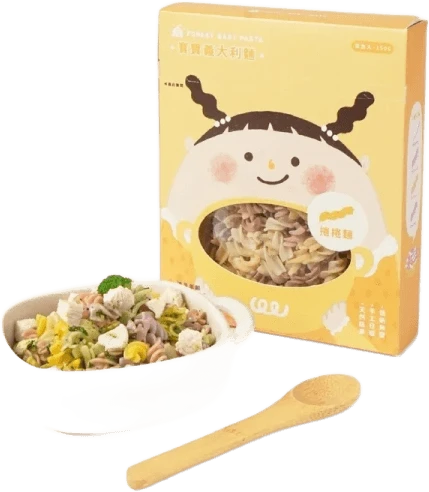
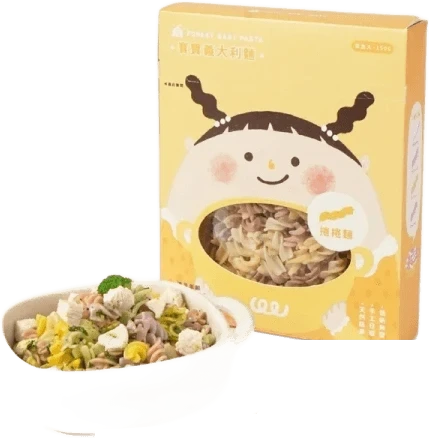
品牌小圖修圖5張：KiGO去logo、美姬留單顆、冊子只留禮盒、禾流重裁、森林麵食去湯匙

diff --git a/images/brands/README.md b/images/brands/README.md
@@ -22,7 +22,7 @@
 | `bonsons.webp` | Bonsons | 白色折疊推車 |
 | `bruno.webp` | Bruno | 白色電烤盤 |
 | `caroline.webp` | 卡蘿琳 | 紫白包裝益生菌盒 |
-| `cezi-giftbox.webp` | 冊子 | 中秋禮盒（月餅組） |
+| `cezi-giftbox.webp` | 冊子 | 中秋禮盒（七入月餅盒） |
 | `forest-noodle.webp` | 森林麵食 | 黃盒麵食＋木碗 |
 | `giiker.webp` | Giiker | 彩色數字方塊益智機 |
 | `hanba-rice.webp` | 韓爸米餅 | 黃色烤地瓜米餅袋 |
@@ -30,9 +30,10 @@
 | `horay.webp` | Horay | 黑色大容量購物袋 |
 | `jolly.webp` | Jolly | 白＋木色旋轉書櫃 |
 | `jpkr-giftbox.webp` | （日/韓中秋禮盒，行事曆W欄用） | 日韓中秋禮盒 |
-| `kigo.webp` | Kigo | 橘 logo＋米色兒童太陽眼鏡 |
+| `kigo.webp` | Kigo | 米色兒童太陽眼鏡 |
 | `lapo.webp` | Lapo | 紫白手持風扇 |
 | `lmg.webp` | LMG | 米色不沾湯鍋 |
+| `meiji-mantou.webp` | 美姬饅頭 | 黃色小雞造型饅頭 |
 | `momax.webp` | MOMAX | 白色防偷拍定位器 |
 | `nadle.webp` | Nadle | 黑白兒童腳踏車 |
 | `parakito.webp` | Parakito | 綠色防蚊掛片 |
